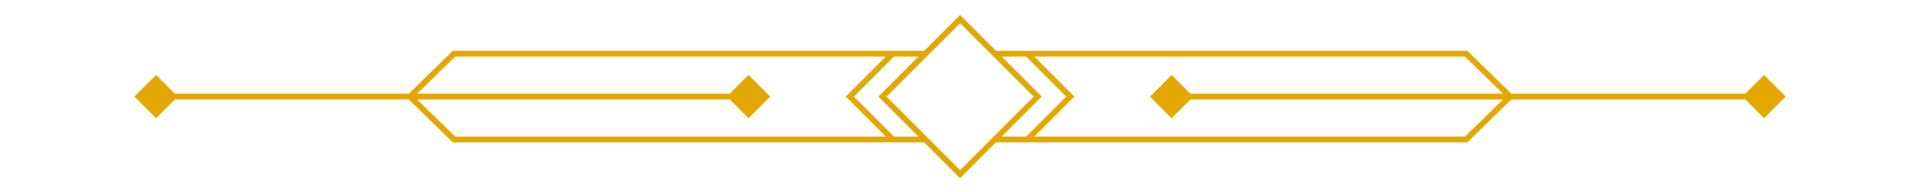
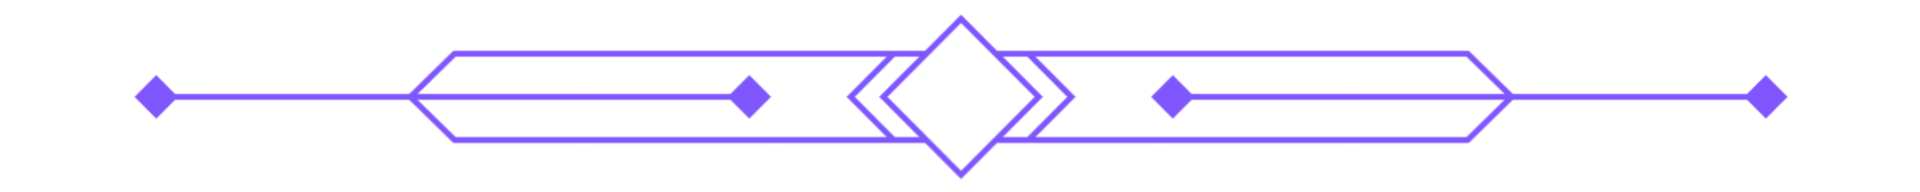
create contact form and add some section title

Changed region(s): [[0.2188, 0.0938, 0.7812, 0.9062], [0.5938, 0.4062, 0.9375, 0.5938], [0.0625, 0.4062, 0.4062, 0.5938]]

diff --git a/index.html b/index.html
@@ -120,6 +120,90 @@
     </section>
 
     <!-------------------------------
+    - Services Section
+    --------------------------------->
+    <section class="services">
+      <div class="container">
+        <div class="section__title">
+          <div class="section__text">
+            <h2>Services</h2>
+          </div>
+          <div class="section__line">
+            <div class="line__img">
+              <img src="img/line-arrow.png" alt="Section Arrow Line" />
+            </div>
+          </div>
+        </div>
+      </div>
+    </section>
+
+    <!-------------------------------
+    - SKill Section
+    --------------------------------->
+    <section class="skill">
+      <div class="container">
+        <div class="section__title">
+          <div class="section__text">
+            <h2>Skill</h2>
+          </div>
+          <div class="section__line">
+            <div class="line__img">
+              <img src="img/line-arrow.png" alt="Section Arrow Line" />
+            </div>
+          </div>
+        </div>
+      </div>
+    </section>
+
+    <!-------------------------------
+    - Portfolio Section
+    --------------------------------->
+    <section class="portfolio">
+      <div class="container">
+        <div class="section__title">
+          <div class="section__text">
+            <h2>Portfolio</h2>
+          </div>
+          <div class="section__line">
+            <div class="line__img">
+              <img src="img/line-arrow.png" alt="Section Arrow Line" />
+            </div>
+          </div>
+        </div>
+      </div>
+    </section>
+
+    <!-------------------------------
+    - Contact Section
+    --------------------------------->
+    <section class="contact">
+      <div class="container">
+        <div class="section__title">
+          <div class="section__text">
+            <h2>Contact</h2>
+          </div>
+          <div class="section__line">
+            <div class="line__img">
+              <img src="img/line-arrow.png" alt="Section Arrow Line" />
+            </div>
+          </div>
+        </div>
+
+        <div class="contact__form">
+          <form action="#">
+            <div class="form__group">
+              <input type="text" placeholder="Name" />
+              <input type="email" placeholder="Email" />
+            </div>
+            <input type="text" placeholder="Subject" />
+            <textarea placeholder="Message" rows="3"></textarea>
+            <input class="submit" type="button" value="Send Message" />
+          </form>
+        </div>
+      </div>
+    </section>
+
+    <!-------------------------------
     - Footer Section
     --------------------------------->
     <section class="footer">

diff --git a/css/style.css b/css/style.css
@@ -46,8 +46,6 @@ img {
 }
 .section__title .section__line .line__img img {
   width: 100%;
-  filter: drop-shadow(0px 1000px 0 #7f56fd);
-  transform: translateY(-1000px);
 }
 
 /*-------------------------------
@@ -151,7 +149,7 @@ About Section
 .about__details {
   display: grid;
   grid-template-columns: auto auto;
-  grid-gap: 1.5rem;
+  grid-gap: 3rem;
   align-items: center;
 }
 .about__image .img {
@@ -180,6 +178,7 @@ About Section
   border: 2px solid #7f56fd;
   transition: 0.5s;
   font-size: 1rem;
+  color: #7f56fd;
 }
 .about__text .button a.cv {
   margin-right: 20px;
@@ -191,8 +190,67 @@ About Section
 }
 
 /*-------------------------------
-Section
+Services Section
 ---------------------------------*/
+.services {
+  padding: 2.5rem 0;
+  background: #f8f9fa;
+}
+
+/*-------------------------------
+Skill Section
+---------------------------------*/
+.skill {
+  padding: 2.5rem 0;
+}
+
+/*-------------------------------
+Portfolio Section
+---------------------------------*/
+.portfolio {
+  padding: 2.5rem 0;
+  background: #f8f9fa;
+}
+
+/*-------------------------------
+Contact Section
+---------------------------------*/
+.contact {
+  padding: 2.5rem 0;
+}
+.contact__form .form__group {
+  display: grid;
+  grid-template-columns: auto auto;
+  grid-gap: 10px;
+}
+.contact__form input {
+  margin-bottom: 10px;
+}
+.contact__form input,
+.contact__form textarea {
+  padding: 10px;
+  display: block;
+  width: 100%;
+  border: 1px solid #bec5d4;
+  font-size: 14px;
+}
+.contact__form input:focus,
+.contact__form textarea:focus {
+  outline: 0;
+  border: 1px solid #a2aabb;
+}
+.contact__form .submit {
+  margin-bottom: 0;
+  margin-top: 10px;
+  background-color: #7f56fd;
+  color: #fff;
+  border: 0;
+}
+.contact__form .submit:hover {
+  background-color: #6d41f1;
+  border: 0;
+}
+
 /*-------------------------------
 Footer Section
 ---------------------------------*/
@@ -336,6 +394,11 @@ Max Width
   }
   .about__details {
     grid-template-columns: auto;
+    grid-gap: 1.5rem;
+  }
+  .contact__form .form__group {
+    grid-template-columns: auto;
+    grid-gap: 0;
   }
 }
 @media only screen and (max-width: 480px) {

diff --git a/sass/_main.scss b/sass/_main.scss
@@ -5,6 +5,7 @@ $primaryHoverColor: #6d41f1;
 $secondaryColor: #1bb1dc;
 $secondaryHoverCOlor: #0a98c0;
 $blackColor: #413e66;
+$bgColor: #f8f9fa;
 
 *,
 *::before,
@@ -53,8 +54,6 @@ $gutter-y: 0;
       margin: auto;
       img {
         width: 100%;
-        filter: drop-shadow(0px 1000px 0 $primaryColor);
-        transform: translateY(-1000px);
       }
     }
   }
@@ -166,7 +165,7 @@ About Section
   &__details {
     display: grid;
     grid-template-columns: auto auto;
-    grid-gap: 1.5rem;
+    grid-gap: 3rem;
     align-items: center;
   }
   &__image {
@@ -200,6 +199,7 @@ About Section
         border: 2px solid $primaryColor;
         transition: 0.5s;
         font-size: 1rem;
+        color: $primaryColor;
         &.cv {
           margin-right: 20px;
           margin-bottom: 10px;
@@ -213,8 +213,64 @@ About Section
   }
 }
 /*-------------------------------
-Section
+Services Section
 ---------------------------------*/
+.services {
+  padding: 2.5rem 0;
+  background: $bgColor;
+}
+/*-------------------------------
+Skill Section
+---------------------------------*/
+.skill {
+  padding: 2.5rem 0;
+}
+/*-------------------------------
+Portfolio Section
+---------------------------------*/
+.portfolio {
+  padding: 2.5rem 0;
+  background: $bgColor;
+}
+/*-------------------------------
+Contact Section
+---------------------------------*/
+.contact {
+  padding: 2.5rem 0;
+  &__form {
+    .form__group {
+      display: grid;
+      grid-template-columns: auto auto;
+      grid-gap: 10px;
+    }
+    input {
+      margin-bottom: 10px;
+    }
+    input,
+    textarea {
+      padding: 10px;
+      display: block;
+      width: 100%;
+      border: 1px solid #bec5d4;
+      font-size: 14px;
+      &:focus {
+        outline: 0;
+        border: 1px solid #a2aabb;
+      }
+    }
+    .submit {
+      margin-bottom: 0;
+      margin-top: 10px;
+      background-color: $primaryColor;
+      color: #fff;
+      border: 0;
+      &:hover {
+        background-color: $primaryHoverColor;
+        border: 0;
+      }
+    }
+  }
+}
 
 /*-------------------------------
 Footer Section

diff --git a/sass/_responsive.scss b/sass/_responsive.scss
@@ -115,6 +115,17 @@ Max Width
   .about {
     &__details {
       grid-template-columns: auto;
+      grid-gap: 1.5rem;
+    }
+  }
+
+  // Contact
+  .contact {
+    &__form {
+      .form__group {
+        grid-template-columns: auto;
+        grid-gap: 0;
+      }
     }
   }
 }
